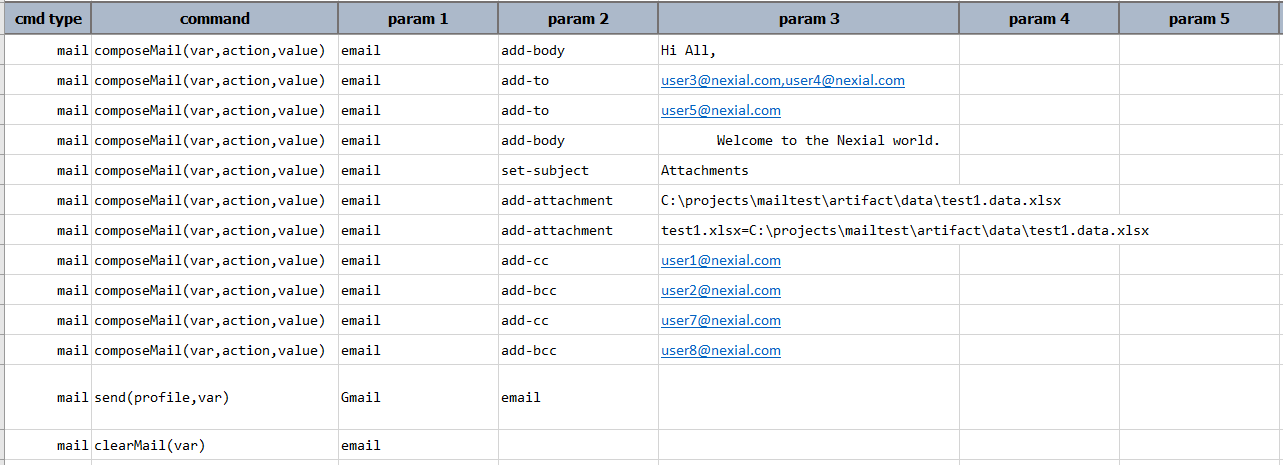
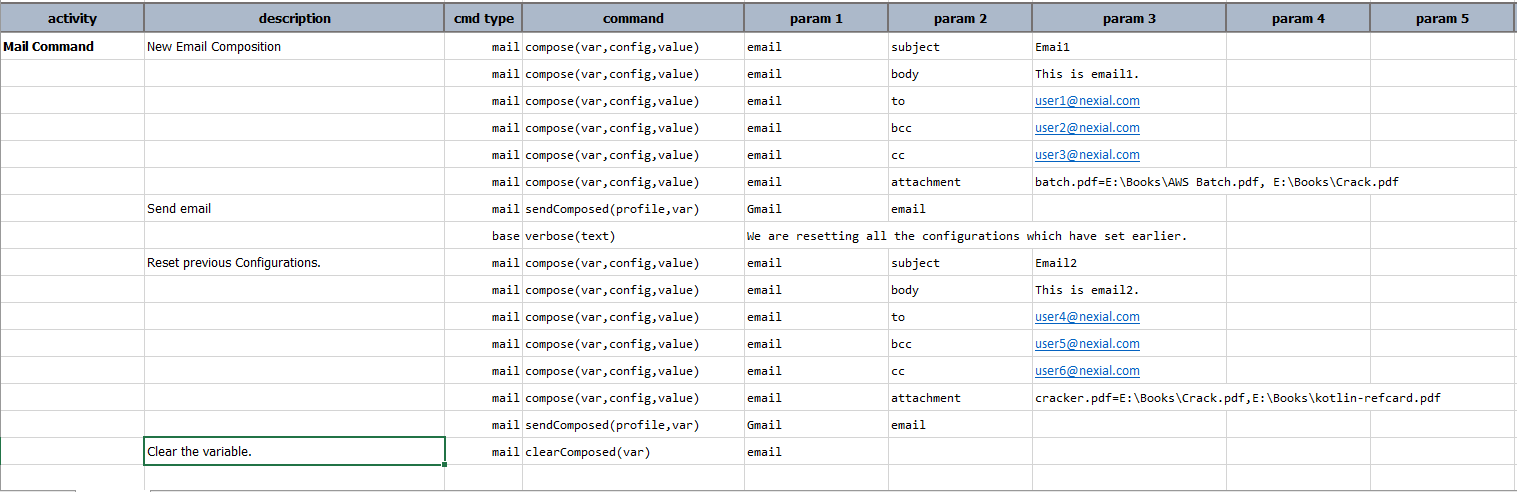
Updating the mail command.

Changed region(s): [[0.0, 0.0, 1.0, 1.0], [0.4677, 0.9032, 0.53, 0.9333]]

diff --git a/commands/mail/compose(var,config,value).md b/commands/mail/compose(var,config,value).md
@@ -1,0 +1,60 @@
+---
+layout: default
+title: compose(var,config,value)
+parent: mail
+tags: command mail
+comments: true
+---
+
+### Description
+This command instructs Nexial to compose an email variable at various steps. The `config` specifies the configuration to
+configure. The `value` provides the value corresponding to the `configuration` set. This step is mandatory before 
+executing the [sendComposed(profile,var)](../mail/sendComposed(profile,var)).
+
+
+### Supported Configs
+- **subject** - Sets the email subject for the email to sent via 
+[sendComposed(profile,var)](../mail/sendComposed(profile,var)).Effectively overrides previously configured
+email subject.
+
+- **to** - Adds the list of the TO recipients who receives the email. This can be a single email address or a list
+  of email addresses separated by a `,`. TO recipients can be altered at any step.
+
+- **cc** - Adds the list of the CC recipients who receives the email. This can be a single email address or a list 
+  of emails separated by a `,`. CC recipients can be altered at any step.
+
+- **bcc** - Adds the list of the BCC recipients who receives the email. This can be a single email address or a list 
+of emails separated by a `,`. BCC recipients can be altered at any step.
+
+- **body** - Sets the email content body. This can be overriden at any step.
+
+- **attachment** - Attaches file(s) to the email. The file attachments can be added as a list separated by `,`.
+  The max size of all the attachments is 10 MB. In case you want to rename an attachment it can be done by providing
+  the attachment as a key/value pair  separated by `=`. For example:<br/>
+```first.xlsx=$(syspath|data|fullpath)/test1.xlsx, second.xlsx=$(syspath|data|fullpath)/test2.xlsx```.
+   The email body will default to **text/html**. This means that email body can be HTML. Attachments can be reset
+   at any step.
+
+Read about [Mail Settings](index#mail-settings) for details about configuring mail server for your automation.
+
+Any of the above config can be cleared by passing it a value `(empty)`.
+
+The below screenshot is an example.
+![](image/clearValue.png)
+
+
+### Parameters
+- **var** - the variable name containing the email information.
+- **config** - action to perform as part of email composition.
+- **value** - value to be set while composing the email against the action provided.
+
+
+### Example
+**Script**:<br/>
+![](image/mail_02.png)
+
+
+### See Also
+- [mail &raquo; `send(profile,to,subject,body)`](../mail/send(profile,to,subject,body))
+- [mail &raquo; `sendComposed(profile,var)`](../mail/sendComposed(profile,var))
+- [mail &raquo; `clearComposed(var)`](../mail/clearComposed(var))

diff --git a/commands/mail/sendComposed(profile,var).md b/commands/mail/sendComposed(profile,var).md
@@ -1,6 +1,6 @@
 ---
 layout: default
-title: send(profile,var)
+title: sendComposed(profile,var)
 parent: mail
 tags: command mail
 comments: true
@@ -8,10 +8,10 @@ comments: true
 
 ### Description
 This command instructs Nexial to send out an email using the email configuration set in the `profile` and set via the 
-[composeMail(var,action,value)](../mail/composeMail(var,action,value)) command. Use `var` to specify the email settings 
+[compose(var,config,value)](../mail/compose(var,config,value)) command. Use `var` to specify the email settings 
 to use for sending out email.
 
-This comman d expects that the variable passed in the `var` has the Subject, TO recipient and Body set. In case any of
+This command expects that the variable passed in the `var` has the Subject, TO recipient and Body set. In case any of
 these values are not set, then the email will not be delivered resulting an error message.
 
 Read about [Mail Settings](index#mail-settings) for details about configuring mail server for your automation.
@@ -28,5 +28,6 @@ Read about [Mail Settings](index#mail-settings) for details about configuring ma
 
 
 ### See Also
-- [mail &raquo; `composeMail(var,action,value)`](../mail/composeMail(var,action,value))
-- [mail &raquo; `clearMail(var)`](../mail/clearMail(var))
+- [mail &raquo; `send(profile,to,subject,body)`](../mail/send(profile,to,subject,body))
+- [mail &raquo; `compose(var,config,value)`](../mail/compose(var,config,value))
+- [mail &raquo; `clearComposed(var)`](../mail/clearComposed(var))

diff --git a/commands/mail/index.md b/commands/mail/index.md
@@ -5,6 +5,13 @@ tags: command mail smtp
 comments: true
 ---
 
+The "mail" command type represents the automation command regarding sending emails.  Future enhancement could include
+the retrieval of emails as well (_if you need this feature sooner, submit an 
+<a href="https://github.com/nexiality/nexial-core/issues/new" class="external-link" target="_nexial_link">issue</a> 
+to increase the priority thereof_).
+
+In order to send email, appropriate mail server connectivity must be defined first.  The section below describes how
+mail server connectivity would be configured.
 
 The `mail` commands represent a series of automation regarding emails (SMTP). As of now, the main focus is on sending 
 email. Future version of Nexial could potentially support the reading email as well. If this is of interest or
@@ -75,6 +82,7 @@ optionally rename the profile from `Gmail` to something else.
 
 
 ### Available Commands
-- [mail &raquo; `composeMail(var,action,value)`](../mail/composeMail(var,action,value))
-- [mail &raquo; `send(profile,var)`](../mail/send(profile,var))
-- [mail &raquo; `clearMail(var)`](../mail/clearMail(var))
+- [mail &raquo; `send(profile,to,subject,body)`](../mail/send(profile,to,subject,body))
+- [mail &raquo; `compose(var,config,value)`](../mail/compose(var,config,value))
+- [mail &raquo; `sendComposed(profile,var)`](../mail/sendComposed(profile,var))
+- [mail &raquo; `clearComposed(var)`](../mail/clearComposed(var))

diff --git a/commands/mail/send(profile,to,subject,body).md b/commands/mail/send(profile,to,subject,body).md
@@ -1,0 +1,35 @@
+---
+layout: default
+title: send(profile,to,subject,body)
+parent: mail
+tags: command mail
+comments: true
+---
+
+
+### Description
+This command instructs Nexial to send out an email to one or more email recipients (all as "To") with the same 
+subject line and same email body. The email body will default to **text/html**. This means that email body can 
+be HTML. 
+
+Read about [Mail Settings](index#mail-settings) for details about configuring mail server for your automation.
+
+
+### Parameters
+- **profile** - the profile of the target mail connectivty. See [mail settings](index#mail-settings) for more details.
+- **to** - one or more email recipients, separated by comma. Example: `john_doe@company1.com,jane_smith@company2.com`
+- **subject** - the email subject line. All recipients will receive the same email subject line
+- **body** - the email body which all recipients will receive. The content is assumed as plain text. Also, it is 
+  possible to use the **[`$(projectfile)`](../../functions/$(projectfile))** built-in variable to pull in email 
+  content from a file. Token replacement will be in effect.
+
+
+### Example
+**Script**:<br/>
+![](image/send_01.png)
+
+
+### See Also
+- [mail &raquo; `compose(var,config,value)`](../mail/compose(var,config,value))
+- [mail &raquo; `sendComposed(profile,var)`](../mail/sendComposed(profile,var))
+- [mail &raquo; `clearComposed(var)`](../mail/clearComposed(var))

diff --git a/commands/mail/clearComposed(var).md b/commands/mail/clearComposed(var).md
@@ -1,0 +1,26 @@
+---
+layout: default
+title: clearComposed(var)
+parent: mail
+tags: command mail
+comments: true
+---
+
+### Description
+This command deletes existing email configuration (configured via 
+[`compose(var,config,value)`](compose(var,config,value))) based on the specified `var`.
+
+
+### Parameters
+- **var** - the variable name containing the email information.
+
+
+### Example
+**Script**:<br/>
+![](image/mail_02.png)
+
+
+### See Also
+- [mail &raquo; `send(profile,to,subject,body)`](../mail/send(profile,to,subject,body))
+- [mail &raquo; `compose(var,config,value)`](../mail/compose(var,config,value))
+- [mail &raquo; `sendComposed(profile,var)`](../mail/sendComposed(profile,var))

diff --git a/release/nexial-core-v3.4.changelog.md b/release/nexial-core-v3.4.changelog.md
@@ -81,7 +81,7 @@ comments: true
 ### [mail commands](../commands/mail)
 - support for adding recipients in the TO, CC and BCC list.
 - support for adding attachments to the email.
-- support for appending the body to email at different steps.
+- support for configuring email at different steps.
 
 
 ### [rdbms commands](../commands/rdbms)
